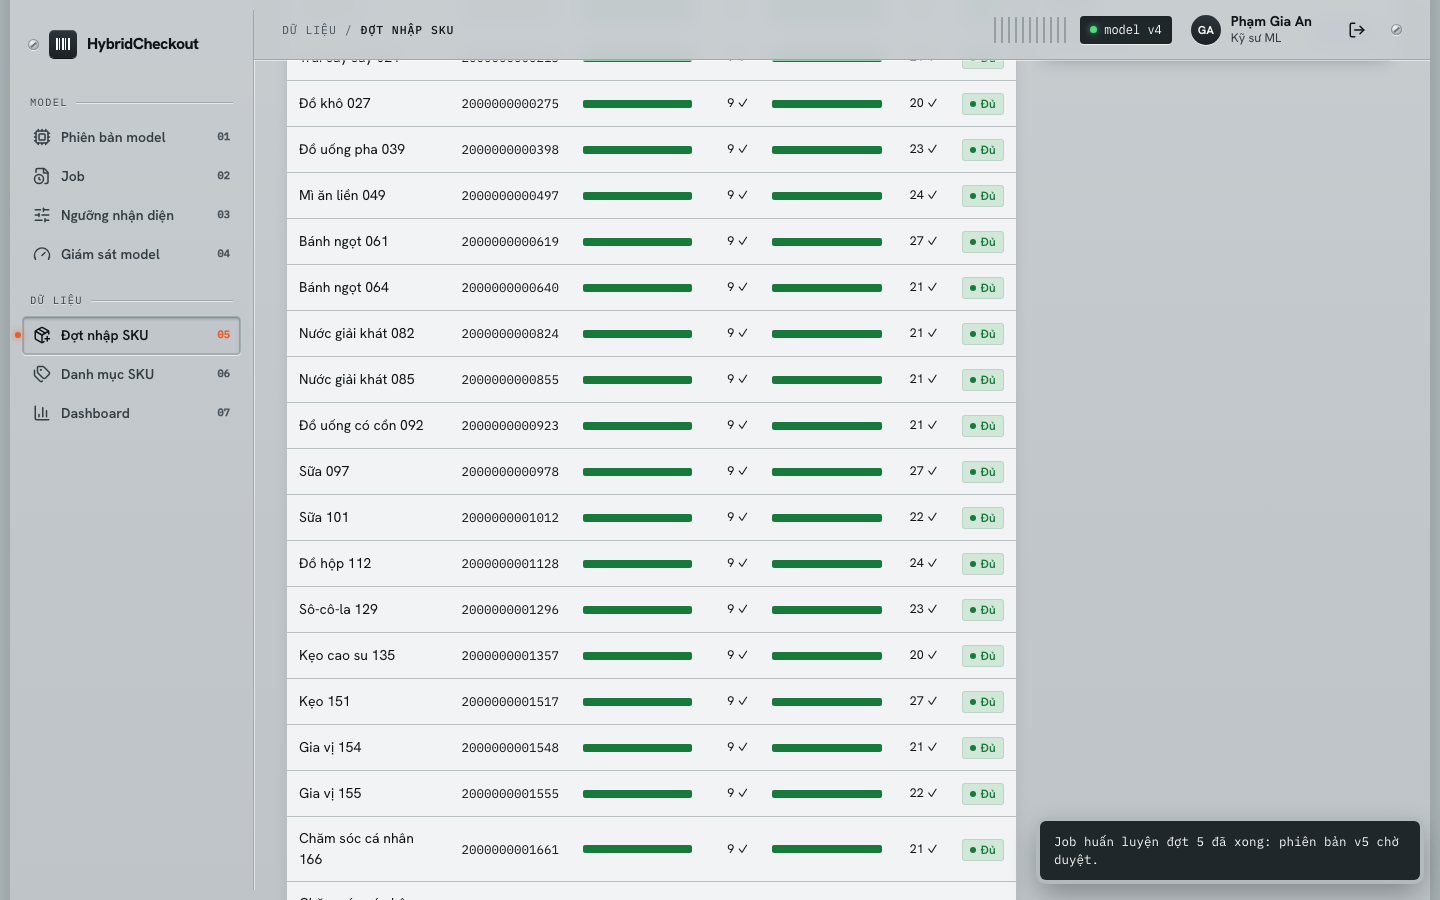
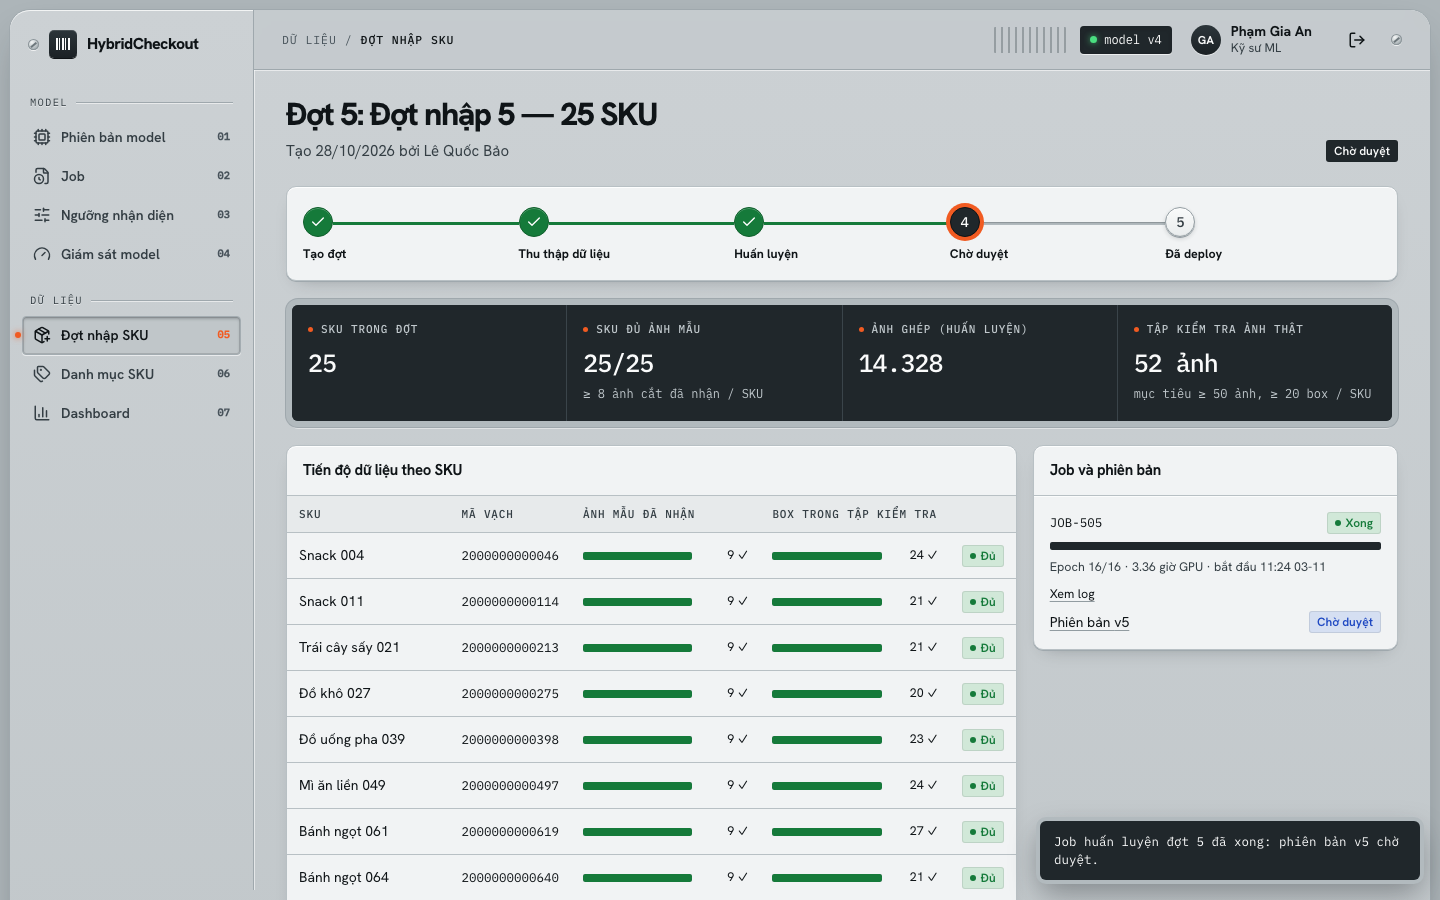
docs: thống nhất mô tả vai trò Quản lý và giao diện Industrial, chụp lại ảnh đợt nhập

diff --git a/docs/02-use-case-user-stories.md b/docs/02-use-case-user-stories.md
@@ -228,7 +228,7 @@ flowchart LR
 | UC21 | Duyệt phiên bản model | Kỹ sư ML | So với phiên bản đang chạy theo cổng duyệt |
 | UC22 | Deploy / rollback | Kỹ sư ML | Đưa phiên bản mới ra quầy hoặc quay lại bản trước |
 | UC23 | Cấu hình ngưỡng | Kỹ sư ML | Chỉnh ngưỡng cảnh báo, ngưỡng tự nhận; xem trước tác động |
-| UC24 | Giám sát model | Kỹ sư ML | Báo nhầm, bản sửa, cặp hay nhầm, độ trễ |
+| UC24 | Giám sát model | Kỹ sư ML (Quản lý chỉ xem, menu "Chất lượng camera") | Báo nhầm, bản sửa, cặp hay nhầm, độ trễ |
 | UC25 | Quản lý người dùng | Quản trị viên | Tạo, sửa, khóa tài khoản, gán vai trò |
 | UC26 | Quản lý quầy và camera | Quản trị viên | Thêm quầy, gán camera, chụp thử |
 | UC27 | Xem nhật ký | Quản trị viên | Thao tác quan trọng, chỉ đọc |

diff --git a/README.md b/README.md
@@ -228,7 +228,7 @@ S01 Đăng nhập · S03 Không có quyền (khi mở trang ngoài quyền)
     │   └── M07 Đợt nhập → M08 Chi tiết đợt nhập
     │                        ├── L01 Ảnh mẫu & ảnh ghép     Kỹ sư ML (QL tải ảnh)
     │                        └── L02 Gán nhãn ảnh thật      Kỹ sư ML
-    ├── Model                                               Kỹ sư ML (QL xem)
+    ├── Model                                               Kỹ sư ML (QL chỉ xem L07, tên menu: Chất lượng camera)
     │   ├── L03 Job
     │   ├── L04 Phiên bản model → L05 Chi tiết & Cổng duyệt
     │   ├── L06 Ngưỡng nhận diện
